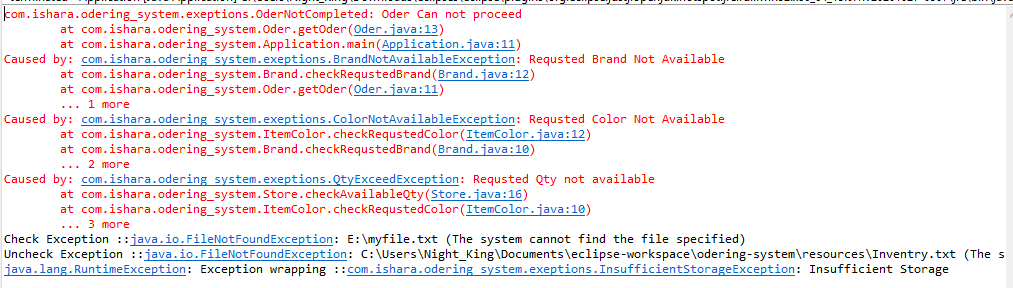
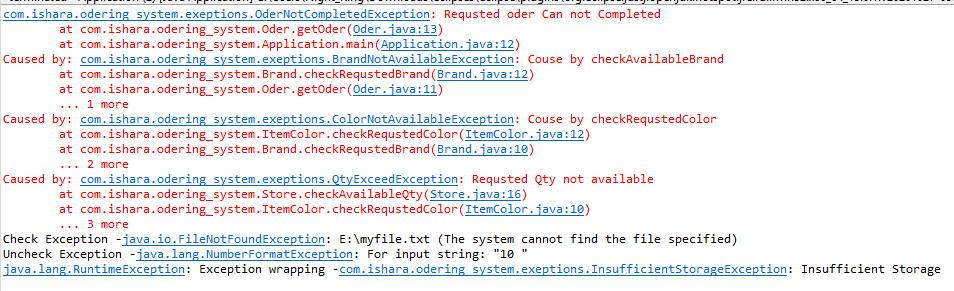
correction on Store class

Changed region(s): [[0.0, 0.0, 1.0, 0.9688]]

diff --git a/Exception/odering-system/src/com/ishara/odering_system/Store.java b/Exception/odering-system/src/com/ishara/odering_system/Store.java
@@ -25,18 +25,21 @@ public class Store {
 		}
 	}
 	
-	public void getInventry(String itemCode) {
+	public void showRemainQtyOf(String itemCode) {
 		
 		int itemCount;
 		try {
-			File inventryFile = new File("C:\\Users\\Night_King\\Documents\\eclipse-workspace\\odering-system\\resources\\Inventry.txt");
+			File inventryFile = new File("C:\\Users\\Night_King\\Documents\\projects\\Virtusa-LP-Training-Extented\\Exception\\odering-system\\resources\\Inventry.txt");
 			
 			Scanner scanFile = new Scanner(inventryFile); 
 			
 			itemCount = Integer.parseInt(scanFile.nextLine());
 			System.out.println("Vailable Count of "+itemCode+ "-" + itemCount);
 		}
-		catch (Exception e)
+		catch (FileNotFoundException e){
+			System.out.println("Check Exception -" + e);			
+		}
+		catch (NumberFormatException e)
 		{
 			System.out.println("Uncheck Exception -" + e);
 		}			

diff --git a/Exception/odering-system/src/com/ishara/odering_system/Application.java b/Exception/odering-system/src/com/ishara/odering_system/Application.java
@@ -7,18 +7,18 @@ import com.ishara.odering_system.exeptions.*;
 public class Application {
 
 	public static void main(String[] args) {
-		// TODO Auto-generated method stub
 		try {
             Oder newOder = new Oder();
             newOder.getOder();
         } catch (Exception e) {
-              System.out.println(e);
+        	
+           e.printStackTrace();       
         }
 		
 			
 		Store store = new Store();
 		store.previewInventory();		
-		store.getInventry("R123");
+		store.showRemainQtyOf("R123");
 		try {
 			store.setInventory("R123",2000);
 		} catch (RuntimeException e) {

diff --git a/Exception/odering-system/src/com/ishara/odering_system/exeptions/BrandNotAvailableException.java b/Exception/odering-system/src/com/ishara/odering_system/exeptions/BrandNotAvailableException.java
@@ -3,7 +3,7 @@ package com.ishara.odering_system.exeptions;
 public class BrandNotAvailableException extends Exception{
 	public BrandNotAvailableException(String messgae, Exception e) {
 		super(messgae,e);
-		// TODO Auto-generated constructor stub
+		
 	}
 
 }

diff --git a/Exception/odering-system/src/com/ishara/odering_system/exeptions/ColorNotAvailableException.java b/Exception/odering-system/src/com/ishara/odering_system/exeptions/ColorNotAvailableException.java
@@ -3,7 +3,7 @@ package com.ishara.odering_system.exeptions;
 public class ColorNotAvailableException extends Exception{
 	public ColorNotAvailableException(String messgae,Exception e) {
 		super(messgae,e);
-		// TODO Auto-generated constructor stub
+		
 	}
 	
 }

diff --git a/Exception/odering-system/src/com/ishara/odering_system/exeptions/InsufficientStorageException.java b/Exception/odering-system/src/com/ishara/odering_system/exeptions/InsufficientStorageException.java
@@ -3,7 +3,7 @@ package com.ishara.odering_system.exeptions;
 public class InsufficientStorageException extends Exception{
 	public InsufficientStorageException() {
 		super("Insufficient Storage");
-		// TODO Auto-generated constructor stub
+		
 	}
 	
 }

diff --git a/Exception/odering-system/src/com/ishara/odering_system/exeptions/InventoryNotFoundException.java b/Exception/odering-system/src/com/ishara/odering_system/exeptions/InventoryNotFoundException.java
@@ -6,7 +6,7 @@ import java.io.IOException;
 public class InventoryNotFoundException extends IOException{
 	public InventoryNotFoundException( ) {
 		super("Inventory File Not Found");
-		// TODO Auto-generated constructor stub
+		
 	}
 
 }

diff --git a/Exception/odering-system/src/com/ishara/odering_system/exeptions/QtyExceedException.java b/Exception/odering-system/src/com/ishara/odering_system/exeptions/QtyExceedException.java
@@ -6,7 +6,7 @@ public class QtyExceedException extends Exception{
 		}
 		public QtyExceedException(String messgae) {
 			super(messgae);
-			// TODO Auto-generated constructor stub
+			
 		}
 
 }
